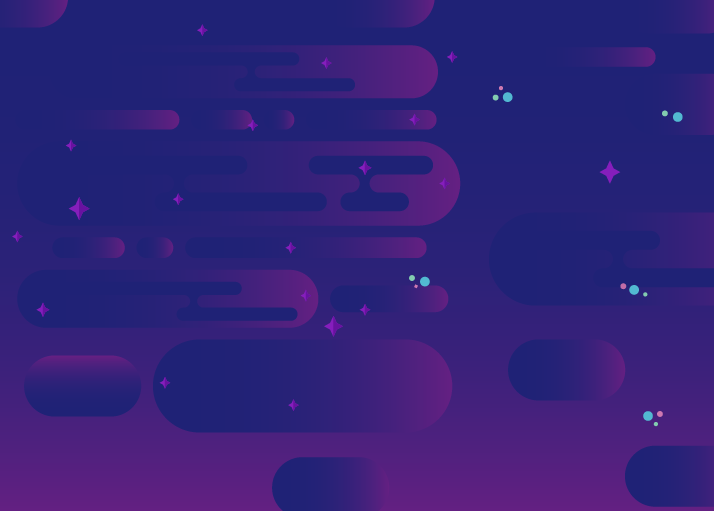
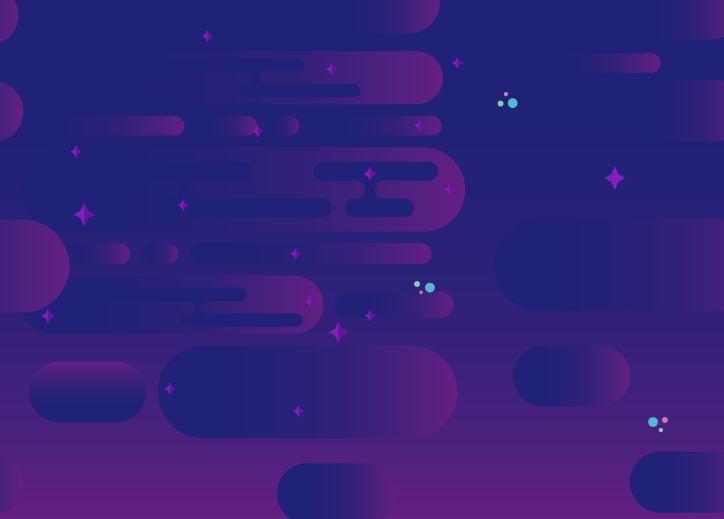
Continuous background, Fix numeri bug, README

diff --git a/src/main/java/fr/ip/model/core/Cell.java b/src/main/java/fr/ip/model/core/Cell.java
@@ -140,22 +140,24 @@ public abstract class Cell {
 
         /**
          * Constructor. Do nothing if the answer is wrong
+         * @param question The question to ask
          * @param isCorrect Predicate to say if the answer s correct
          * @param success Event to run if the answer is correct
          */
-        public QuestionCell (Predicate<String> isCorrect, ActionEvent<Event.CellEvent> success) {
-            this (isCorrect, success, (Event.CellEvent event) -> {});
+        public QuestionCell (String question, Predicate<String> isCorrect, ActionEvent<Event.CellEvent> success) {
+            this (question, isCorrect, success, (Event.CellEvent event) -> {});
         }
 
         /**
          * Constructor.
+         * @param question The question to ask
          * @param isCorrect Predicate to say if the answer s correct
          * @param success Event to run if the answer is correct
          * @param fail Event ti run if the answer is wrong
          */
-        public QuestionCell (Predicate<String> isCorrect, ActionEvent<Event.CellEvent> success, ActionEvent<Event.CellEvent> fail) {
+        public QuestionCell (String question, Predicate<String> isCorrect, ActionEvent<Event.CellEvent> success, ActionEvent<Event.CellEvent> fail) {
             Cell.this.listener().add("enter", (Event.CellEvent event) -> {
-                String answer = Facade.read();
+                String answer = Facade.read(question);
                 if (isCorrect.test(answer)) success.run(event);
                 else fail.run(event);
             });

diff --git a/src/main/java/fr/ip/model/goose/GooseCell.java b/src/main/java/fr/ip/model/goose/GooseCell.java
@@ -12,19 +12,20 @@ public class GooseCell extends Cell {
 
     public GooseCell () {
         super();
-        if (id != 1 && id != GooseGame.getSize())
+        if (id != 1 && id != GooseGame.getSize() && id != 5)
             new SinglePawnCell(false);
 
         if (id == 5) new TrapCell();
-        if (id == 6) new CounterCell(2);
-        if (id == 7) new JumpCell(GooseGame.getSize());
-        if (id % 4 == 0) listener().add("enter", (Event.CellEvent e) -> {
+        if (id == 6 || id == 9) new CounterCell(2);
+        if (id % 3 == 0) new JumpCell(5);
+        if (id == 8) listener().add("enter", (Event.CellEvent e) -> {
             Facade.show(new Message("Play again"));
             Game.getInstance().playAgain();
             e.stopPropagation();
         });
         if (id == 10)
             new QuestionCell(
+                    "Say true.",
                     (String s) -> s.equals("true"),
                     (Event.CellEvent event) -> Facade.show(new Message("Correct answer")),
                     (Event.CellEvent event) -> Facade.show(new Message("It's a fail loser !")));

diff --git a/src/main/java/fr/ip/model/numeri/NumeriCell.java b/src/main/java/fr/ip/model/numeri/NumeriCell.java
@@ -4,10 +4,34 @@ import fr.ip.model.core.Cell;
 
 public class NumeriCell extends Cell {
 
+    public final int value;
+
     public NumeriCell () {
         super();
         if (id != 1 && id != NumeriGame.getSize())
             new SinglePawnCell(true);
+
+        if (id <= 3) value = -3;
+        else if (id == 4 || id == 5) value = -2;
+        else if (id == 6 || id == 7) value = -1;
+        else if (id == 10) value = 1;
+        else if (id == 13) value = 2;
+        else if (id == 15) value = 3;
+        else if (id == 17) value = 4;
+        else if (id == 19) value = 5;
+        else if (id == 20) value = 6;
+        else if (id == 23) value = 7;
+        else if (id == 25) value = 8;
+        else if (id == 27) value = 9;
+        else if (id == 28) value = 10;
+        else if (id == 31) value = 11;
+        else if (id == 32) value = 12;
+        else if (id == 34) value = 13;
+        else if (id == 35) value = 15;
+        else if (id == 38) value = 20;
+        else if (id == 39) value = 25;
+        else if (id == 40) value = 30;
+        else value = 0;
 
     }
 

diff --git a/src/main/java/fr/ip/view/core/GameBoardPanel.java b/src/main/java/fr/ip/view/core/GameBoardPanel.java
@@ -62,13 +62,13 @@ public class GameBoardPanel extends ImageBackgroundJPanel.ImageBackgroundView {
                     for (int i = 0; i < borderSize; i++)
                         if (i % 2 == 0)
                             for (int j = 0; j < borderSize; j++) {
-                  int index = i * borderSize + j;
-                  if (index < buttons.size()) add(buttons.get(index));
+                                int index = i * borderSize + j;
+                                if (index < buttons.size()) add(buttons.get(index));
                             }
                         else
                             for (int j = 0; j <= borderSize; j++) {
-                  int index = (i + 1) * borderSize - j;
-                  if (index < buttons.size()) add(buttons.get(index));
+                                int index = (i + 1) * borderSize - j;
+                                if (index < buttons.size()) add(buttons.get(index));
                             }
                 break;
                 case Configuration.Game.CellOrder.SPIRAL:

diff --git a/src/main/java/fr/ip/view/numeri/NumeriPanel.java b/src/main/java/fr/ip/view/numeri/NumeriPanel.java
@@ -4,6 +4,7 @@ import fr.ip.model.core.Game;
 import fr.ip.model.core.Pawn;
 import fr.ip.model.core.Player;
 import fr.ip.model.numeri.NumeriGame;
+import fr.ip.model.numeri.NumeriCell;
 import fr.ip.model.numeri.NumeriPlayer;
 import fr.ip.view.core.GameBoardPanel;
 import fr.ip.view.core.MainFrame;
@@ -62,6 +63,25 @@ public class NumeriPanel extends GameBoardPanel {
 
     private void onEnd () {
         playButton.setEnabled(false);
+        HashMap<String, Object> map = new HashMap<>();
+        map.put("target", "numeri");
+
+        int max = 0;
+        NumeriPlayer winner = null;
+        for (Player p: game) {
+            NumeriPlayer player = (NumeriPlayer)p;
+            int score = 0;
+            for (NumeriPlayer.NumeriPawn pawn: player.pawns())
+                score += pawn.id * ((NumeriCell)pawn.getLocation()).value;
+            if (score > max) {
+                max = score;
+                winner = player;
+            }
+        }
+
+        map.put("win", winner.toString());
+
+        MainFrame.set("end", map);
     }
 
 }

diff --git a/src/main/java/fr/ip/model/numeri/NumeriPlayer.java b/src/main/java/fr/ip/model/numeri/NumeriPlayer.java
@@ -58,7 +58,7 @@ public class NumeriPlayer extends Player {
             }
 
             for (int id: ids)
-                pawns[id - 1].goToCell(pawns[id].getLocation().next(1));
+                pawns[id - 1].goToCell(pawns[id - 1].getLocation().next(1));
 
             String show = "";
             for (Pawn pawn: pawns)

diff --git a/src/main/java/fr/ip/view/core/MainFrame.java b/src/main/java/fr/ip/view/core/MainFrame.java
@@ -27,7 +27,7 @@ public class MainFrame extends JFrame {
 
         setTitle("Game");
         setDefaultCloseOperation(WindowConstants.EXIT_ON_CLOSE);
-        setMinimumSize(new Dimension(650, 500));
+        setMinimumSize(new Dimension(750, 750));
         getContentPane().setLayout(cl);
 
         try {

diff --git a/src/main/java/fr/ip/view/core/components/Configuration.java b/src/main/java/fr/ip/view/core/components/Configuration.java
@@ -57,7 +57,7 @@ public class Configuration {
 
     public Configuration () {
         this.goose = new Game(15, 5, 3);
-        this.numeri = new Game(11, 5, 3);
+        this.numeri = new Game(40, 5, 3);
     }
 
 }

diff --git a/README.md b/README.md
@@ -1,47 +1,77 @@
 # POOIG
 
-# TODO
-- [x] terminer jeu de l'oie classique avec les deux variantes de fin
-- [x] version pions ne peuvent pas cohabiter
-- [x] cases prisons, case auberges
-- [ ] numeri
+## Installation
+Pour installer le projet, il suffit de cloner le dépôt
+```
+$ git clone https://github.com/Peaupote/POOIG.git
+```
+
+## Compiler
+Afin de compiler, sans avoir à se prendre la tête avec des IDE, sans modifier le CLASSHPATH nous utilisons Maven.
+
+Il suffit donc d'installer maven, puis à la racine du projet
+```
+$ mvn package # compile dans target
+$ java -jar target/project-1.0-SNAPSHOT.jar # execute le programme
+```
 
 ## Architecture du dépot
 ```
+.
+├── assets       Ressources pour le projet (images, audio...)
+├── pom.xml      Fichier de configuration pour compiler avec Maven
 ├── README.md
 └── src
-    └── fr
-        └── ip
-            ├── Main.java
-            └── model
-                ├── core
-                │   ├── ActionEvent.java
-                │   ├── Board.java
-                │   ├── Cell.java
-                │   ├── Event.java
-                │   ├── EventListener.java
-                │   ├── Game.java
-                │   ├── Pawn.java
-                │   └── Player.java
-                ├── goose
-                │   ├── GooseCell.java
-                │   ├── GooseGame.java
-                │   └── GoosePlayer.java
-                └── numeri
-                    ├── NumeriGame.java
-                    └── NumeriPlayer.java
-
+    └── main
+        └── java
+            └── fr
+                └── ip
+                    ├── App.java                                Classe principale du projet
+                    ├── model                                   Package contenant les classes servant à modéliser le jeu
+                    │   ├── core                                  - Package pour les classes communes au deux jeux
+                    │   │   ├── ActionEvent.java
+                    │   │   ├── Board.java
+                    │   │   ├── Cell.java
+                    │   │   ├── Event.java
+                    │   │   ├── EventListener.java
+                    │   │   ├── Game.java
+                    │   │   ├── Pawn.java
+                    │   │   └── Player.java
+                    │   ├── goose                                 - Package pour le jeu de l'oie
+                    │   │   ├── GooseCell.java
+                    │   │   ├── GooseGame.java
+                    │   │   └── GoosePlayer.java
+                    │   ├── numeri                                - Package pour le numeri
+                    │   │   ├── NumeriCell.java
+                    │   │   ├── NumeriGame.java
+                    │   │   └── NumeriPlayer.java
+                    │   └── util                                  - Classes utilitaires
+                    │       ├── Facade.java
+                    │       ├── Level.java
+                    │       ├── Message.java
+                    │       ├── Question.java
+                    │       ├── Settings.java
+                    │       ├── StringUtil.java
+                    │       └── Tuple.java
+                    └── view                                    Package contenant les classes servant à l'interface graphique
+                        ├── core                                Package contenant les classes communes et les pages principales
+                        │   ├── components
+                        │   │   ├── CellButton.java
+                        │   │   ├── Configuration.java
+                        │   │   ├── PrimaryButton.java
+                        │   │   └── SettingPanel.java
+                        │   ├── EndPanel.java
+                        │   ├── GameBoardPanel.java
+                        │   ├── GameModalBox.java
+                        │   ├── ImageBackgroundJPanel.java
+                        │   ├── MainFrame.java
+                        │   ├── Menu.java
+                        │   └── SingleView.java
+                        ├── goose                             Jeu de l'oie
+                        │   ├── GooseModalBox.java
+                        │   └── GoosePanel.java
+                        └── numeri                            Numeri
+                            ├── NumeriModalBox.java
+                            └── NumeriPanel.java
 ```
 
-On trouve dans le package core le code factorisé entre le jeu de l'oie et le numeri dont les spécifitées sont précisées dans leurs packages respectifs.
-
-## Action event
-Le modèle se base sur une logique d'événement (début d'un tour, fin d'un tour, un pion arrive sur une case...) qui sont représentés à travers l'interface fonctionelle ActionEvent.
-La méthode à implémenter s'appelle run et prend en paramètre un événement qui a un nom.
-
-## Les événements
-Nous avons décidé de ne pas reprendre la classe native Event de java afin de s'éviter trop de code lourd et inutile pour ce projet.
-Grossièrement on manipule un événement avec son nom et on peu décider de cesser la "propagation" des événements après l'éxécution de l'un d'entre eux.
-
-## EventListener
-L'interface EventListener représente les classes qui recoivent les événements comme le joueur ou la cellule. On peut donc déclencher les événements en connaissant leur nom ou en ajouter. 
